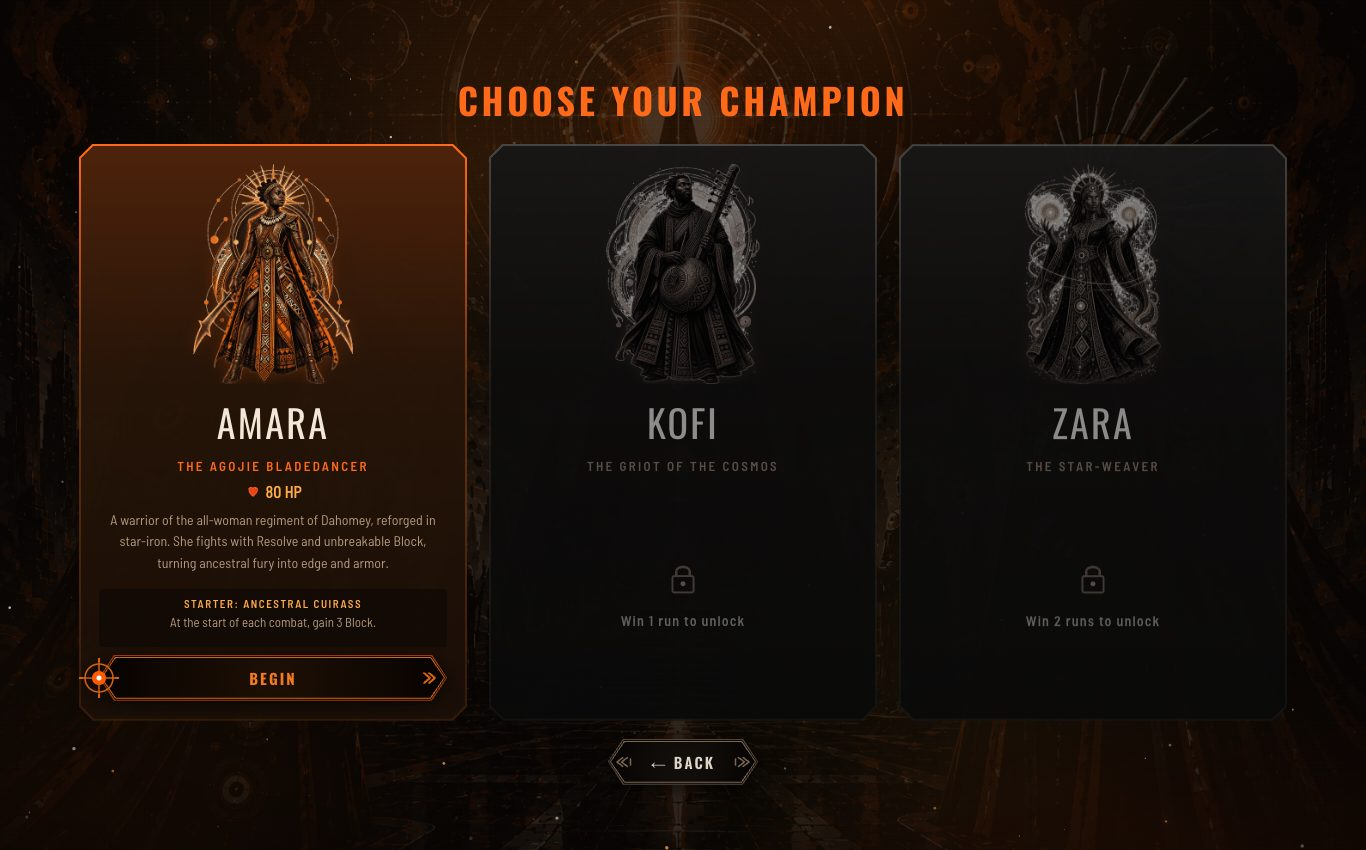
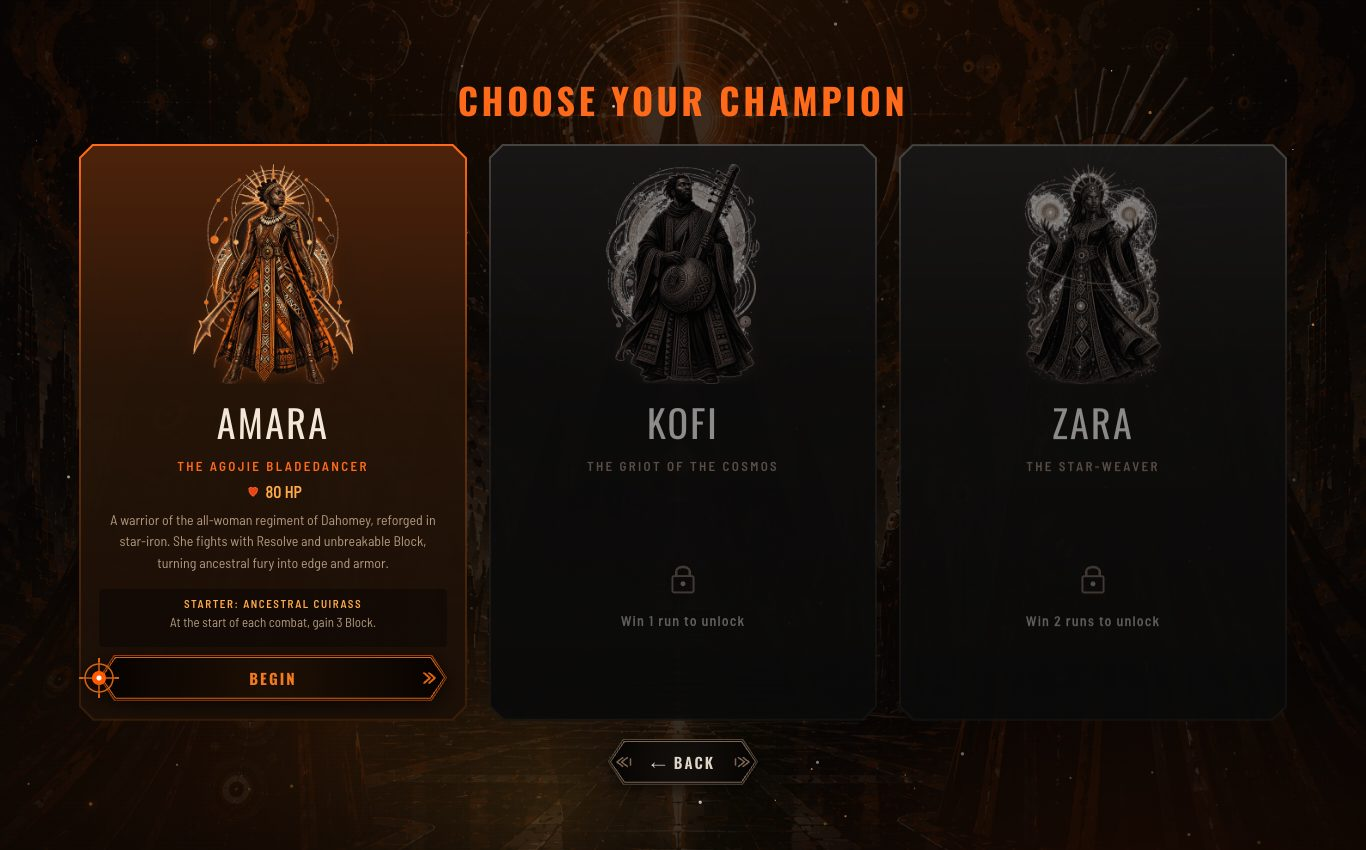
Redesign mobile-landscape character picker to match desktop's ratios
Moves the Back button to the top-left (overlapping the heading's grid
cell) and turns the card row into a `minmax(0, 1fr)` grid track that
fills the freed-up vertical space instead of shrink-wrapping and
centering with dead space above/below. Card content (portrait, text,
Begin button) scales up to match, with a compact `:has(.asc-select)`
preset so the optional Ascension row doesn't squeeze cards into
clipping once it's unlocked.

Changed region(s): [[0.3075, 0.8259, 0.4612, 1.0], [0.3382, 0.1224, 0.369, 0.2753], [0.246, 0.8565, 0.2767, 0.8871]]

diff --git a/styles.css b/styles.css
@@ -2229,33 +2229,67 @@ img.svg-ic { object-fit: contain; }
   .title-meta { font-size: 10px; margin: 6px auto; padding: 4px 14px; }
 
   .scene.charselect {
-    min-height: 100dvh;
+    height: 100dvh;
     display: flex;
     flex-direction: column;
-    justify-content: safe center;
     box-sizing: border-box;
     padding: 8px 16px;
+    overflow: hidden;
   }
 
+  /* Grid instead of a centered flex column: row 1 is a header band shared by
+     the heading and the Back button (placed in the same cell so the button
+     pins to the left edge while the heading centers across the full width —
+     no fixed header height or absolute positioning needed), row 2 (the card
+     grid) gets a `minmax(0, 1fr)` track so it stretches to consume all
+     leftover height instead of the old shrink-wrap-then-center-vertically
+     layout that left a large dead band above/below the cards, and row 3 is
+     the optional Ascension selector. */
   .charselect {
     padding-top: 0;
-    display: flex;
-    flex-direction: column;
-    align-items: center;
-    justify-content: center;
+    display: grid;
+    grid-template-columns: 1fr;
+    grid-template-rows: auto minmax(0, 1fr) auto;
+    row-gap: 4px;
     width: 100%;
+    height: 100%;
+    box-sizing: border-box;
   }
-  .charselect h2 { font-size: 18px; margin-top: 0; margin-bottom: 8px; }
+  /* h2 and the Back button both explicitly target row 1 / column 1 — with
+     only one explicit column, leaving column auto on either would make grid
+     auto-placement bump the second one into a new implicit column (it treats
+     an indefinite column as "find a non-overlapping slot") instead of the
+     intentional overlap this layout relies on. */
+  .charselect h2 {
+    grid-row: 1;
+    grid-column: 1;
+    justify-self: center;
+    align-self: center;
+    font-size: 20px;
+    margin: 0;
+  }
+  .charselect > .btn {
+    grid-row: 1;
+    grid-column: 1;
+    justify-self: start;
+    align-self: center;
+    min-height: 32px;
+    min-width: 0;
+    padding: 6px 18px;
+    font-size: 12px;
+    margin: 0;
+  }
   .char-grid {
+    grid-row: 2;
     display: grid;
     grid-template-columns: repeat(3, minmax(0, 1fr));
-    gap: 12px;
-    margin-bottom: 8px;
+    gap: 14px;
     width: 100%;
-    max-width: 960px;
+    max-width: 1040px;
+    margin: 0 auto;
   }
   .char-card {
-    padding: 10px 8px;
+    padding: 10px 10px;
     gap: 4px;
     --notch: 10px;
     display: flex;
@@ -2263,25 +2297,54 @@ img.svg-ic { object-fit: contain; }
     justify-content: space-between;
     height: 100%;
     box-sizing: border-box;
+    overflow: hidden;
   }
-  .char-glyph { width: clamp(60px, 18vh, 100px); height: clamp(60px, 18vh, 100px); margin: 0 auto 2px; }
-  .char-name { font-size: clamp(14px, 4vh, 18px); line-height: 1.1; }
-  .char-title { font-size: 8.5px; letter-spacing: 0.1em; }
-  .char-hp { font-size: 11px; }
+  /* Sized as a % of the card's (stable) width rather than viewport height:
+     row 2's actual height varies with whether the Ascension selector (row 3)
+     is present, and a vh-based glyph size read that variance as "more room"
+     and grew, only to have flex-shrink silently squash it back down — and
+     shrink the text blocks below their line-clamped height with it, clipping
+     mid-word instead of cleanly eliding. Width is constant regardless of
+     row 3, so this and the `flex-shrink: 0` below remove that coupling. */
+  .char-glyph { width: 34%; aspect-ratio: 1 / 1; height: auto; margin: 0 auto 2px; }
+  .char-name { font-size: clamp(15px, 4.5vh, 22px); line-height: 1.1; flex-shrink: 0; }
+  .char-title { font-size: 9.5px; letter-spacing: 0.1em; flex-shrink: 0; }
+  .char-hp { font-size: 12px; flex-shrink: 0; }
   .char-blurb {
-    min-height: 0; font-size: 10px; line-height: 1.3;
+    min-height: 0; font-size: 11px; line-height: 1.3; flex-shrink: 0;
     display: -webkit-box; -webkit-line-clamp: 3; -webkit-box-orient: vertical; overflow: hidden;
   }
   .char-relic {
-    min-height: 0; font-size: 9.5px; padding: 4px 6px;
+    min-height: 0; font-size: 10.5px; padding: 5px 7px; flex-shrink: 0;
     display: -webkit-box; -webkit-line-clamp: 2; -webkit-box-orient: vertical; overflow: hidden;
   }
-  .char-relic-label { font-size: 8px; margin-bottom: 2px; }
-  .char-card .btn { min-height: 26px; min-width: 0; padding: 4px 12px; font-size: 11px; margin-top: 4px; }
-  .charselect > .btn { min-height: 30px; padding: 5px 20px; font-size: 12px; margin-top: 4px; }
+  .char-relic-label { font-size: 8.5px; margin-bottom: 2px; }
+  .char-card .btn { min-height: 30px; min-width: 0; padding: 5px 14px; font-size: 12px; margin-top: 4px; flex-shrink: 0; }
 
-  /* Compact Ascension Selector for mobile landscape */
-  .asc-select { margin: 4px auto 2px; }
+  /* Once the Ascension selector (row 3, only shown after a win) claims its
+     own band, row 2 has meaningfully less height to give the cards — with
+     `flex-shrink: 0` protecting text from clipping mid-word, that deficit
+     would otherwise surface as the Begin button (last child) getting pushed
+     out of the card and clipped by `overflow: hidden` instead. `:has()` (also
+     used for relic/potion art elsewhere) lets the card content itself run
+     more compact specifically when that row exists, rather than picking one
+     size that's a compromise for both cases. */
+  .charselect:has(.asc-select) .char-card { padding: 8px 8px; gap: 2px; }
+  .charselect:has(.asc-select) .char-glyph { width: 22%; }
+  .charselect:has(.asc-select) .char-title { font-size: 8.5px; }
+  .charselect:has(.asc-select) .char-hp { font-size: 11px; }
+  .charselect:has(.asc-select) .char-blurb { font-size: 10px; line-height: 1.25; -webkit-line-clamp: 2; }
+  .charselect:has(.asc-select) .char-relic { font-size: 9.5px; padding: 4px 6px; }
+  .charselect:has(.asc-select) .char-card .btn { min-height: 26px; padding: 4px 12px; font-size: 11px; margin-top: 2px; }
+  .charselect:has(.asc-select) .char-lock-ic { width: 36px; height: 36px; }
+
+  /* Compact Ascension Selector for mobile landscape. Capped + independently
+     scrollable: at high Ascension the modifier list (.asc-desc) is cumulative
+     and unbounded (every unlocked level's line stacks up), and this row sits
+     in the same `.charselect` grid as the card row — left uncapped, a long
+     list would keep eating into row 2's `minmax(0, 1fr)` track and squeeze
+     the cards indefinitely. */
+  .asc-select { grid-row: 3; margin: 2px auto 0; max-height: 96px; overflow-y: auto; }
   .asc-row { gap: 8px; }
   .asc-row .btn { min-width: 36px; padding: 3px 8px; font-size: 11px; }
   .asc-label { font-size: 14px; min-width: 120px; text-shadow: 0 0 10px rgba(255,170,60,0.5); }

diff --git a/.agents/AGENTS.md b/.agents/AGENTS.md
@@ -7,8 +7,9 @@
 - **Events ("?" nodes)**: Story events live in `src/data/events.js` and must be original to the ÀṢẸ world (Sunken Market / Brass Archive / Static Crown) — never reskins of Slay the Spire events. Each event has an `art` id; the view (`eventArt()` in `game.js`) shows `assets/event-art/<art>.png`, falling back to a committed `.svg` placeholder, then the generic "?" glyph. Generate art with `node tools/gen-event-art.js` (reads `tools/events.manifest.json`); `--dry-run` writes SVG placeholders with ZERO deps.
 - **First-play tutorial**: `src/ui/tutorial.js` (`CombatTutorial`) is a single top-pinned coaching banner shown once, on the first-ever combat, gated by `meta.tutorialDone` (set true when finished OR skipped). Started from `beginCombat` in `game.js` ~1700ms after mount (timed to clear the deferred Battle-Start-then-opening-draw open). It reads live combat state by chaining `combat.onUpdate` (never mutates game logic) and never blocks the board. Six steps: hand+Àṣẹ intro, enemy intent, play a Block skill, play an Attack card, end turn, wrap-up — each of steps 1-5 adds a `.tut-highlight` class (a bright pulsing shine — `filter: brightness()/saturate()` + glow `box-shadow` via `@keyframes tutShine`, deliberately not a static outline/box) to the relevant live DOM node(s) by selector via `querySelectorAll` (step 1 highlights every card in hand individually with `.hand .card`, not the whole `.hand` container as one box), reapplied every `onUpdate()` since combatView rebuilds those nodes each render. The enemy-intent step also sets `align: 'left'` on its step config (toggles `.tut-banner.tut-left`) so the banner doesn't overlap the intent pill it's pointing at on narrow/landscape-phone widths — verified no bounding-box overlap at 812×375, 700×780, 390×780. The block/attack steps find the first matching card in hand by `uid` and advance only when that uid leaves the hand (falls back to "any card played" if no match exists, ~2-3% chance on a 5-card starter draw, so it can't soft-lock). `game.js`'s `startMonster()` forces the run's first-ever monster fight to `['husk_drone']` when `!meta.tutorialDone` so the guaranteed turn-1 attack intent makes the "foe is about to strike" step always true. Re-test by clearing `localStorage`. Styles under the "first-play tutorial" block in `styles.css`.
 - **Auto-Update Learnings**: On every action/task, if you discover a project-specific gotcha, solve a debugging issue, or establish a new convention/pattern, you must immediately update `CLAUDE.md` and `.agents/AGENTS.md` to persist this learning.
-- **Landscape-phone breakpoint (`@media (max-height: 560px)`)** is the single hook for short viewports; see the detailed note in `CLAUDE.md` before touching `.title`, `.charselect`, or `.hand`/`.combat-controls` layout — CSS cascade order (not media-query nesting) decides which override wins, and `.combat-controls` uses fixed screen-relative positions that `.hand` must track with matching `%`-based `calc()` math, not `100vw`.
+- **Landscape-phone breakpoint (`@media (max-height: 560px)`)** is the single hook for short viewports; see the detailed note in `CLAUDE.md` before touching `.title`, `.charselect`, or `.hand`/`.combat-controls` layout — CSS cascade order (not media-query nesting) decides which override wins, and `.combat-controls` uses fixed screen-relative positions that `.hand` must track with matching `%`-based `calc()` math, not `100vw`. `.charselect` here is a CSS grid (Back button + heading overlapped in one `grid-row/column: 1` cell, card row `minmax(0, 1fr)` to fill leftover height) — two gotchas: grid auto-placement needs **both** axes explicit on overlapping items or it bumps the second into a new implicit column instead of stacking them, and per-card sizing must avoid `vh` when the row's height depends on optional sibling content (the Ascension selector) — use `%`-of-width + `aspect-ratio` for the glyph and `flex-shrink: 0` on text blocks instead, or `flex-shrink` silently squashes a `-webkit-line-clamp` box below its line height and clips text mid-word; a `.charselect:has(.asc-select) …` preset (same `:has()` pattern as relic/potion art) handles the "meaningfully less height available" case separately.
 - **Browser testing**: install `playwright-core --no-save`, launch Chromium at `/opt/pw-browsers/chromium-1194/chrome-linux/chrome` (which falls back to the default macOS Google Chrome location on Darwin) with `--no-sandbox`. Never wait on `networkidle` (looping audio/rAF never idles) — use `domcontentloaded` + `waitForTimeout`. `window.__ase` is the live Game instance for asserting run state **and driving scenes**: `__ase.showTitle()`, `__ase.showCharSelect()`, `__ase.startRun('amara')`, `__ase.showMap()`, `__ase.startMonster()`. Set `localStorage` `spire_of_ase_meta_v1` `tutorialDone:true` before combat so the first-play tutorial doesn't block screenshots. Also, when selecting cards dynamically via Playwright (e.g. during tutorial coaching steps), avoid using dynamic styling classes like `.tut-highlight` directly in click locators. Because the hand is cleared and rebuilt on changes, these classes can be temporarily missing until next-tick updates reapply them. Instead, fetch the card's `data-uid` attribute first and target the element specifically using `[data-uid="..."]`.
+- **Interactive preview tool (`mcp__Claude_Preview__*`) gotcha**: scenes fade in via `.scene{opacity:0;transform:translateY(14px)}→.scene.show{...}` (`setScene()` in game.js). Driving a scene via `preview_eval` and measuring `getBoundingClientRect()` right after — even past an in-page `setTimeout` wait — can still catch it mid-transition (rAF seems throttled on these tabs), producing a phantom few-px offset. Force the settle before measuring: `el.style.transition='none'; el.style.opacity='1'; el.style.transform='none'`.
 - **QA screenshot / responsiveness audit**: `npm run qa` (`node tools/qa-screenshots.js`) drives title → char select → map → combat at a landscape phone (812×375) and a desktop (1366×850) viewport, writes JPEG screenshots + `report.md`/`report.json` to `docs/qa/`, and flags horizontal overflow, off-screen/clipped controls, and hand cards overlapping the energy orb / End Turn. Clean run = `0 issue(s)`; committed `docs/qa/*.jpg` are the baseline. It found & we fixed a real desktop-combat bug: the fanned hand was cropped at the bottom and slid under the corner controls. Fix lived in the base `.hand`/`.card.in-hand` rules (bottom padding 30px + dip cap `min(--shift,18px)`) plus the desktop breakpoint (safe-zone margins **and** a smaller `--card-h` cap — margins alone can't help because `.hand` is `justify-content:center`, so the whole rotated hand must actually fit the band between the controls).
 - **Combat transitions / pacing** (added here): node entry runs through `Game.veilTransition(swapFn)` (a `.scene-veil` fixed fade veil) so combat/events don't snap in. Combat **opens deferred** — `CombatView.mount` shows a "Battle Start" banner then calls `combat.start()` ~650ms later, so the opening draw deals card-by-card *after* the popup; the tutorial kickoff in `beginCombat` (~1700ms) is timed to that, so keep them in sync. Two cosmetic engine events drive the pacing text: `fx('announce',{text,kind})` → `CombatView.announce()` centered banner (`battle`/`player`/`enemy` = Battle Start / Your Turn / Enemy Turn), and `fx('enemyMove',{source,name})` → move name floated over the enemy via `floatText(...,'name')`. `combat.js`'s `enemyPhase` **`await`s** after the Enemy-Turn banner (850ms), after each move-name float (750ms), and after each action resolves (550ms) so the strike never lands the same instant it's announced — preserve those waits. `endTurn` adds one more `await wait(600)` after `enemyPhase()` returns and before `startPlayerTurn(false)`, so "Your Turn" doesn't fire in the same instant the last enemy's hit lands (skipped when `this.over`). Card play is **two-tap**: first tap sets `previewCard` (card straightens + enlarges via `.previewing`; `--angle/--shift` zeroed in `renderHand`), second tap commits; drag-to-play bypasses the preview. All of it honors `prefers-reduced-motion` (banner/veil have fade fallbacks). **Gotcha**: `npm run qa` wipes `docs/qa/`, deleting the committed `docs/qa/README.md` — `git checkout -- docs/qa/README.md` before committing.
 - **`Combat.notify()` coalescing (real bug found & fixed here)**: several call sites fired two synchronous `notify()`s in the same tick (e.g. `startPlayerTurn`'s `draw()` fires one internally, then the method fires another right after to refresh the log). `CombatView.renderHand()` fully rebuilds the hand's DOM on every call, so the second same-tick render destroyed the first render's newly-hidden new-card nodes before their `requestAnimationFrame`-scheduled draw-pile fly-in animation could run — cards ended up in the right spot but silently teleported instead of animated, on every draw (including the opening hand) since the fly-in was added. Fixed by making `notify()` coalesce same-tick calls via a microtask (`Promise.resolve().then(...)`, guarded by `_notifyScheduled`) into one deferred `onUpdate()`. Because of this, `tools/qa-screenshots.js`'s `combat` scene `settle` had to go from 1100ms to 1800ms — the fly-in now actually takes ~830ms after the 650ms deferred `combat.start()` to fully land. If a per-card/per-element cosmetic animation you add silently doesn't play despite the underlying state change happening, suspect a same-tick double-render stomping a pending `requestAnimationFrame` before you reach for anything more exotic.

diff --git a/CLAUDE.md b/CLAUDE.md
@@ -42,6 +42,21 @@ npm start            # static server at http://localhost:8080 (server.js, zero d
   cleared and rebuilt in the DOM on changes, these classes can be temporarily missing
   until next-tick updates reapply them. Instead, fetch the card's `data-uid` attribute first
   and target the element specifically using `[data-uid="..."]`.
+- **Interactive preview-tool gotcha (`mcp__Claude_Preview__*`, distinct from the
+  Playwright scripts above)**: every scene mounts via `Game.setScene()` with a
+  `.scene{opacity:0;transform:translateY(14px)} .scene.show{...}` fade-in
+  (styles.css). Calling a scene method through `preview_eval` (e.g.
+  `__ase.showCharSelect()`) and then immediately measuring with
+  `getBoundingClientRect()` — even after an in-page `await new
+  Promise(r=>setTimeout(r,600))` — can still read the element mid-transition
+  (translateY not yet settled to 0), because `requestAnimationFrame` appears to
+  get throttled on these automation-driven tabs; a real `setTimeout` fires but
+  the rAF that adds the `.show` class, or the CSS transition it triggers, may
+  not have progressed. This showed up as an unexplained ~8-10px vertical offset
+  when verifying a char-select layout change. Fix: before measuring/
+  screenshotting for a real layout check, force the settle directly —
+  `el.style.transition='none'; el.style.opacity='1'; el.style.transform='none'`
+  — rather than trusting a timed wait.
 - **QA screenshot / responsiveness audit**: `npm run qa`
   (`node tools/qa-screenshots.js`) boots the game, drives title → char select →
   map → combat at a landscape phone (812×375) **and** a desktop (1366×850)
@@ -370,15 +385,41 @@ former champions, the Archive catalogues/erases, "home" is the furnace.
 - **Auto-Update Learnings**: On every action/task, if you discover a project-specific gotcha, solve a debugging issue, or establish a new convention/pattern, you must immediately update `CLAUDE.md` and `.agents/AGENTS.md` to persist this learning.
 - **Keyboard Navigation**: Global keyboard navigation is managed by `KeyboardController` in `src/core/keyboard.js`, instantiated in the `Game` constructor as `this.keyboard`. Interactive elements are queried dynamically, supporting Tab/Shift+Tab, Arrow keys, WASD to navigate, Enter/Space to click, Escape to cancel/go back, and numbers `1`-`9` as direct shortcuts. Visual highlight class is `.kb-focus` in `styles.css`. Keyboard focus is automatically cleared when the mouse moves or clicks. Hover/tooltip synchronization is handled by dispatching synthetic `mouseenter` and `mouseleave` events to the active element. For combat integration, `beginCombat()` stores the `CombatView` instance as `this.combatView` on the `Game` instance to coordinate hand selection and enemy targeting. If a QTE is active (`.qte-layer` exists), the global controller completely bypasses interception so WASD/Arrow controls reach the rhythm game.
 - **Landscape-phone breakpoint (`@media (max-height: 560px)`)**: this is the
-  single hook for short viewports. `.title` and `.charselect` are plain
-  vertically-centered/stacked layouts sized for tall screens — on a short
-  landscape phone their content (title + up to 4 buttons; 3 full char cards)
-  overflows the fold, so compact overrides for them live in a **second**
-  `@media (max-height: 560px)` block placed after `.char-glyph`'s base rule
-  (styles.css, near the "character-select portrait" section) — a rule inside
-  a media query does **not** out-rank a later non-media rule of equal
-  specificity, so an override must be placed after what it overrides in
-  source order regardless of the media query. In `.combat-scene`, only
+  single hook for short viewports. `.title` is a plain vertically-centered/
+  stacked layout sized for tall screens — on a short landscape phone its
+  content (title + up to 4 buttons) overflows the fold, so compact overrides
+  live in a **second** `@media (max-height: 560px)` block placed after
+  `.char-glyph`'s base rule (styles.css, near the "character-select portrait"
+  section) — a rule inside a media query does **not** out-rank a later
+  non-media rule of equal specificity, so an override must be placed after
+  what it overrides in source order regardless of the media query.
+  `.charselect` in this breakpoint is a **CSS grid**, not a centered flex
+  column: row 1 overlaps the heading and the Back button in the *same*
+  `grid-row: 1; grid-column: 1` cell (`justify-self: center` vs `start`) so
+  the button pins top-left "next to the headline" with no fixed header height
+  or `position: absolute`; row 2 (the card grid) is `minmax(0, 1fr)` so it
+  stretches to fill all leftover height instead of shrink-wrapping and then
+  centering with dead space above/below; row 3 is the optional Ascension
+  selector. Two gotchas worth knowing before touching this again: (1) **grid
+  auto-placement doesn't overlap items unless *both* axes are explicit** —
+  giving the heading and Back button only `grid-row: 1` (column left `auto`)
+  makes the browser bump the second one into a *new implicit column* instead
+  of stacking it on the first (auto-placement's job is finding a
+  non-overlapping slot; it doesn't know the overlap is intentional), so both
+  need `grid-column: 1` too. (2) **don't size per-card content in `vh`** when
+  the card's row height depends on optional sibling content (row 3 here) —
+  a `vh`-based glyph reads "more room" from the viewport alone, grows, then
+  gets silently squashed back down by `flex-shrink` once row 3 actually
+  appears and eats into row 2, and without `flex-shrink: 0` that same squeeze
+  hits the text blocks too, shrinking a `-webkit-line-clamp` box *below* its
+  line height and clipping mid-word instead of eliding cleanly. Fixed by
+  sizing `.char-glyph` as a `%` of the (height-independent) card width via
+  `aspect-ratio` instead of `vh`, giving every text block `flex-shrink: 0` so
+  line-clamp always resolves to a clean N (or fewer) lines, and adding a
+  `.charselect:has(.asc-select) …` compact preset (same `:has()` pattern as
+  the relic/potion art rules) so card content itself runs smaller specifically
+  when row 3 exists, rather than picking one size that compromises both. In
+  `.combat-scene`, only
   `.battlefield` is absolutely positioned; `.combat-topbar`/`.combat-log`/
   `.hand` are normal flex-column children and `.combat-log`'s
   `margin-top: auto` shoves the log+hand flush to the bottom, so `.hand`'s
